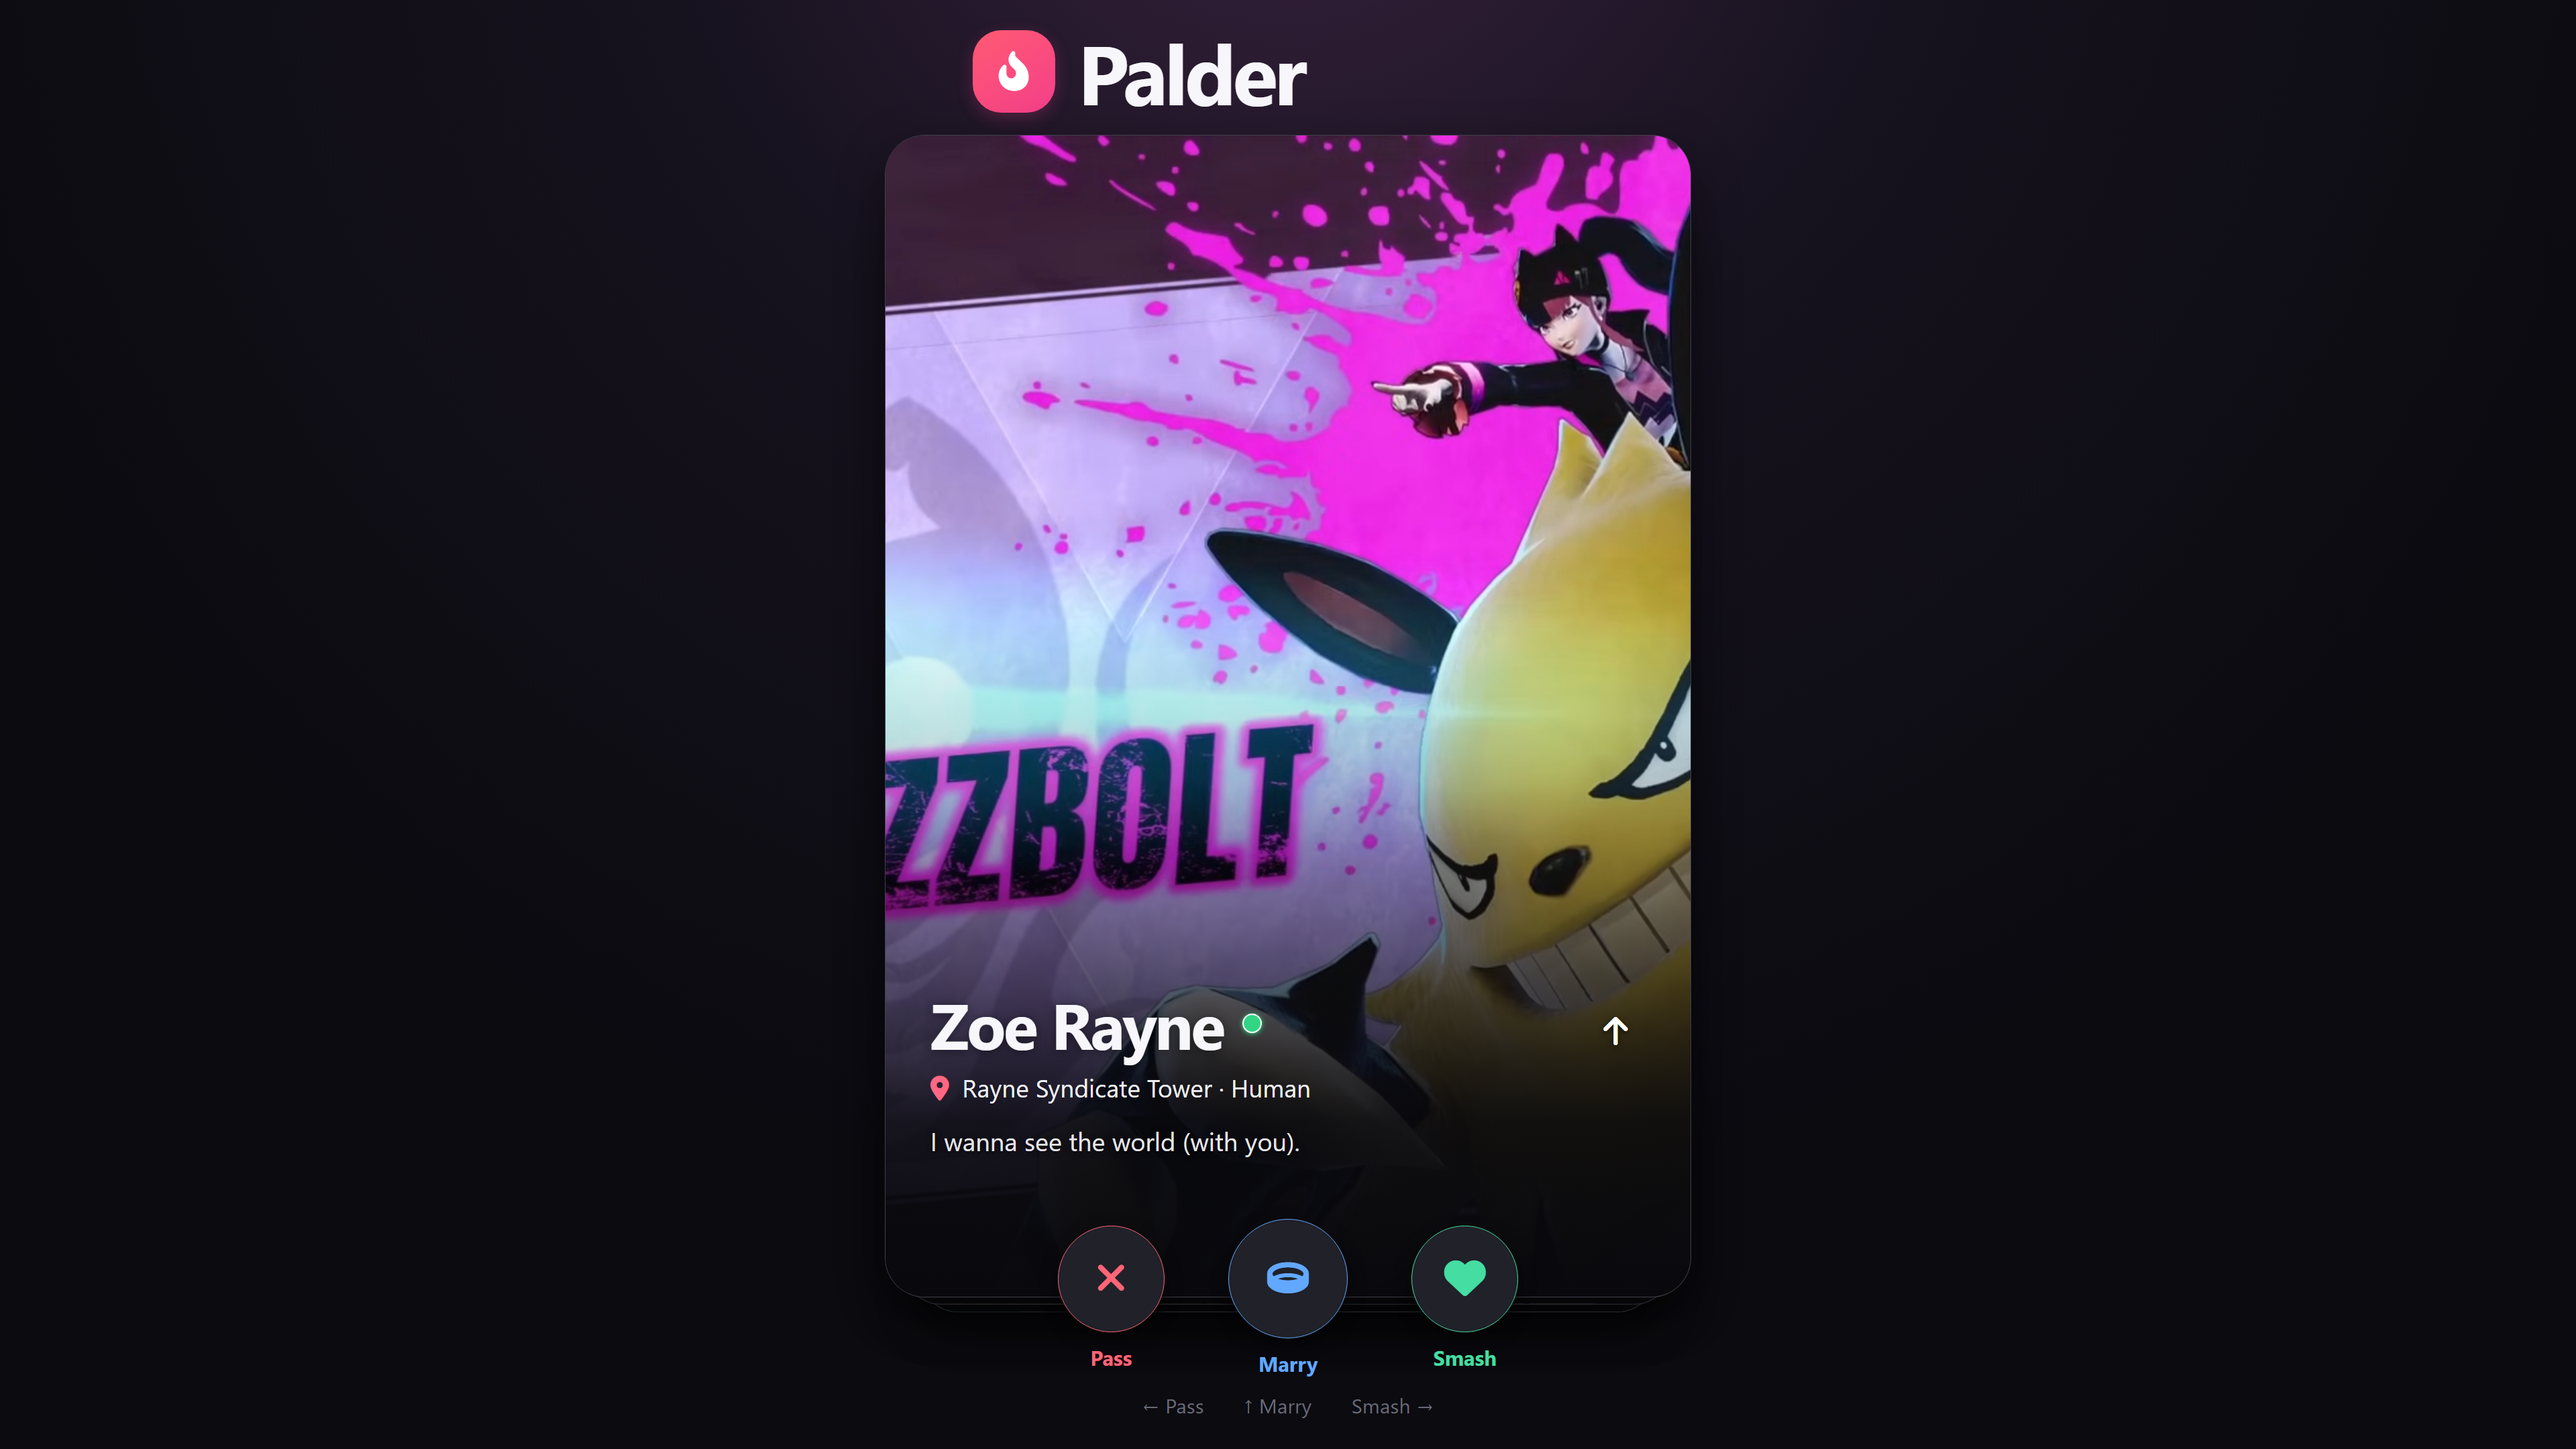
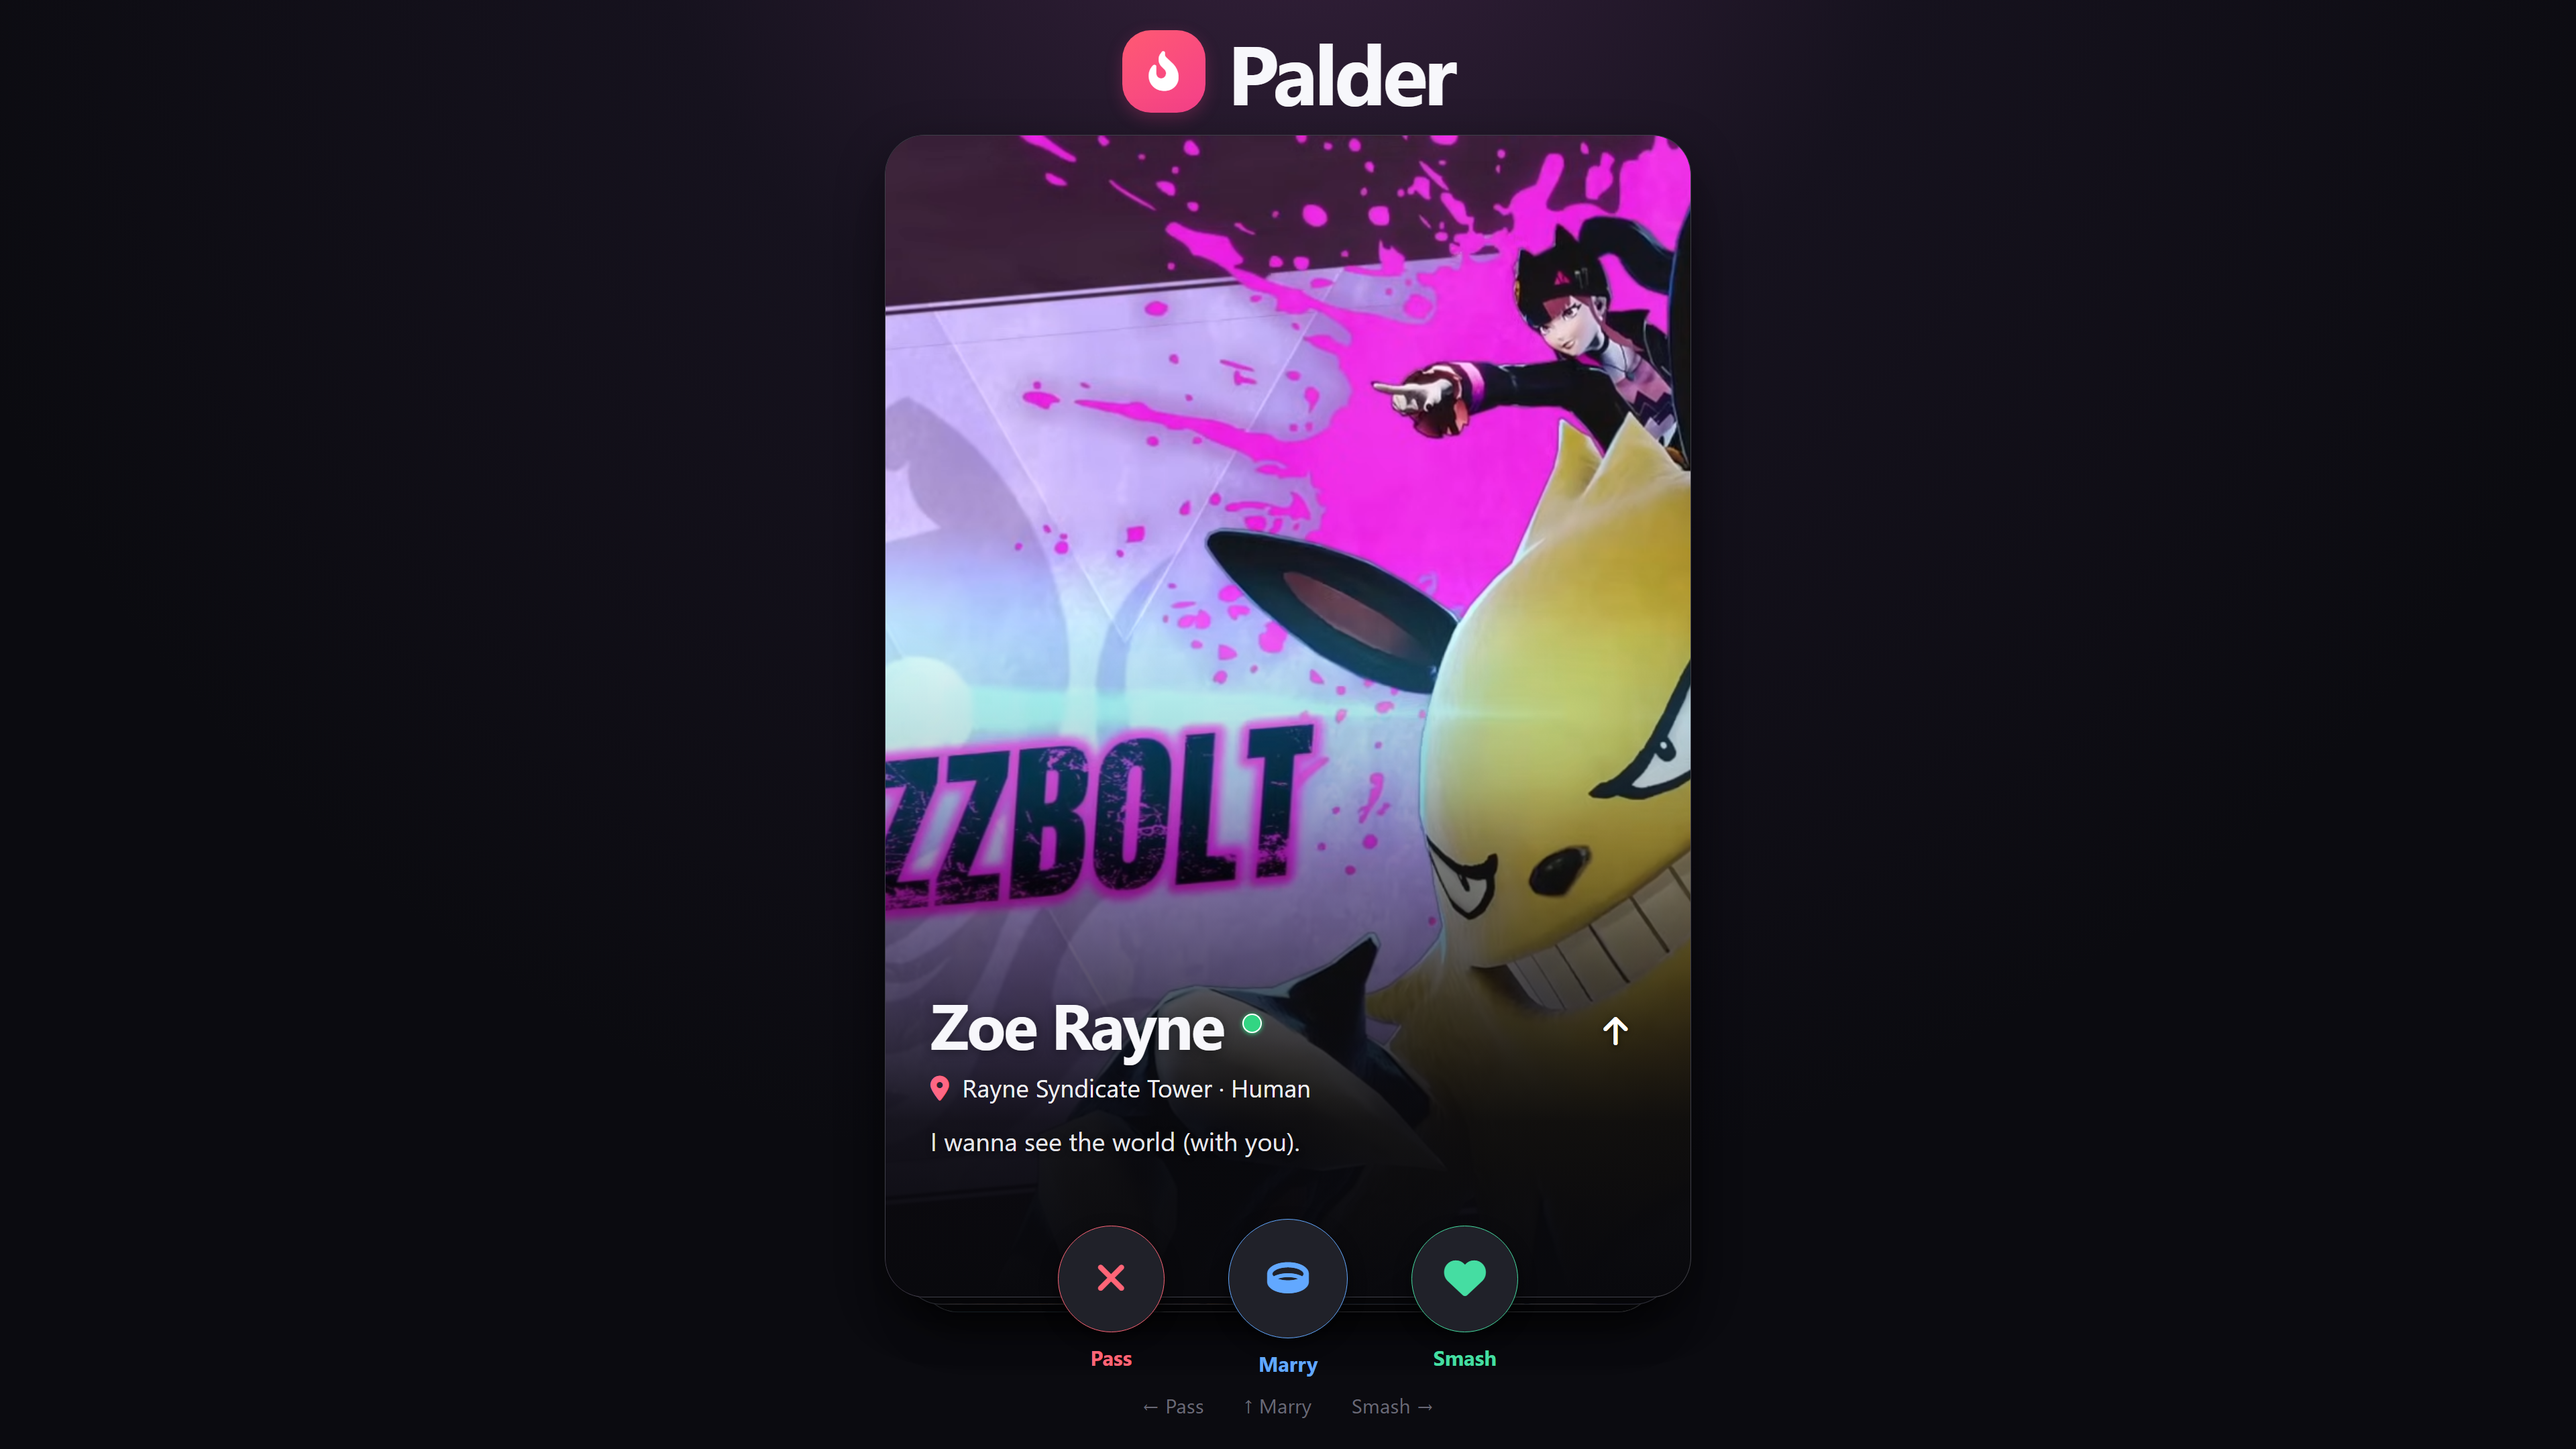
Center the Palder brand

Changed region(s): [[0.375, 0.0, 0.5625, 0.0931]]

diff --git a/style.css b/style.css
@@ -734,7 +734,7 @@ body.sop-page {
 }
 
 .sop-app { --sop-card-ratio: 43 / 62; width: min(calc(100vw - 2rem), calc((100svh - 9rem) * 43 / 62)); min-width: min(100%, 20rem); max-width: none; margin: 0 auto; padding: max(.75rem, env(safe-area-inset-top)) 0 max(.75rem, env(safe-area-inset-bottom)); }
-.sop-header { display: flex; align-items: center; justify-content: space-between; margin-bottom: .85rem; padding: 0 .2rem; }
+.sop-header { display: flex; align-items: center; justify-content: center; margin-bottom: .85rem; padding: 0 .2rem; }
 .sop-brand { display: flex; align-items: center; gap: .7rem; }
 .sop-logo { display: grid; place-items: center; width: 2.6rem; height: 2.6rem; border-radius: .9rem; color: white; font-size: 1.25rem; background: linear-gradient(145deg, #ff5a72, #f43f8a); box-shadow: 0 8px 24px rgba(244,63,138,.25); }
 .sop-brand h1 { margin: 0; color: var(--sop-copy); font-size: 2.6rem; line-height: 1; letter-spacing: -.04em; }

diff --git a/smash-or-pass/index.html b/smash-or-pass/index.html
@@ -5,7 +5,7 @@
   <meta name="viewport" content="width=device-width, initial-scale=1, viewport-fit=cover" />
   <meta name="theme-color" content="#0b0b10" />
   <title>Smash or Pass</title>
-  <link rel="stylesheet" href="../style.css?v=20" />
+  <link rel="stylesheet" href="../style.css?v=21" />
   <link rel="stylesheet" href="https://cdnjs.cloudflare.com/ajax/libs/font-awesome/6.7.2/css/all.min.css" />
 </head>
 <body class="sop-page">
